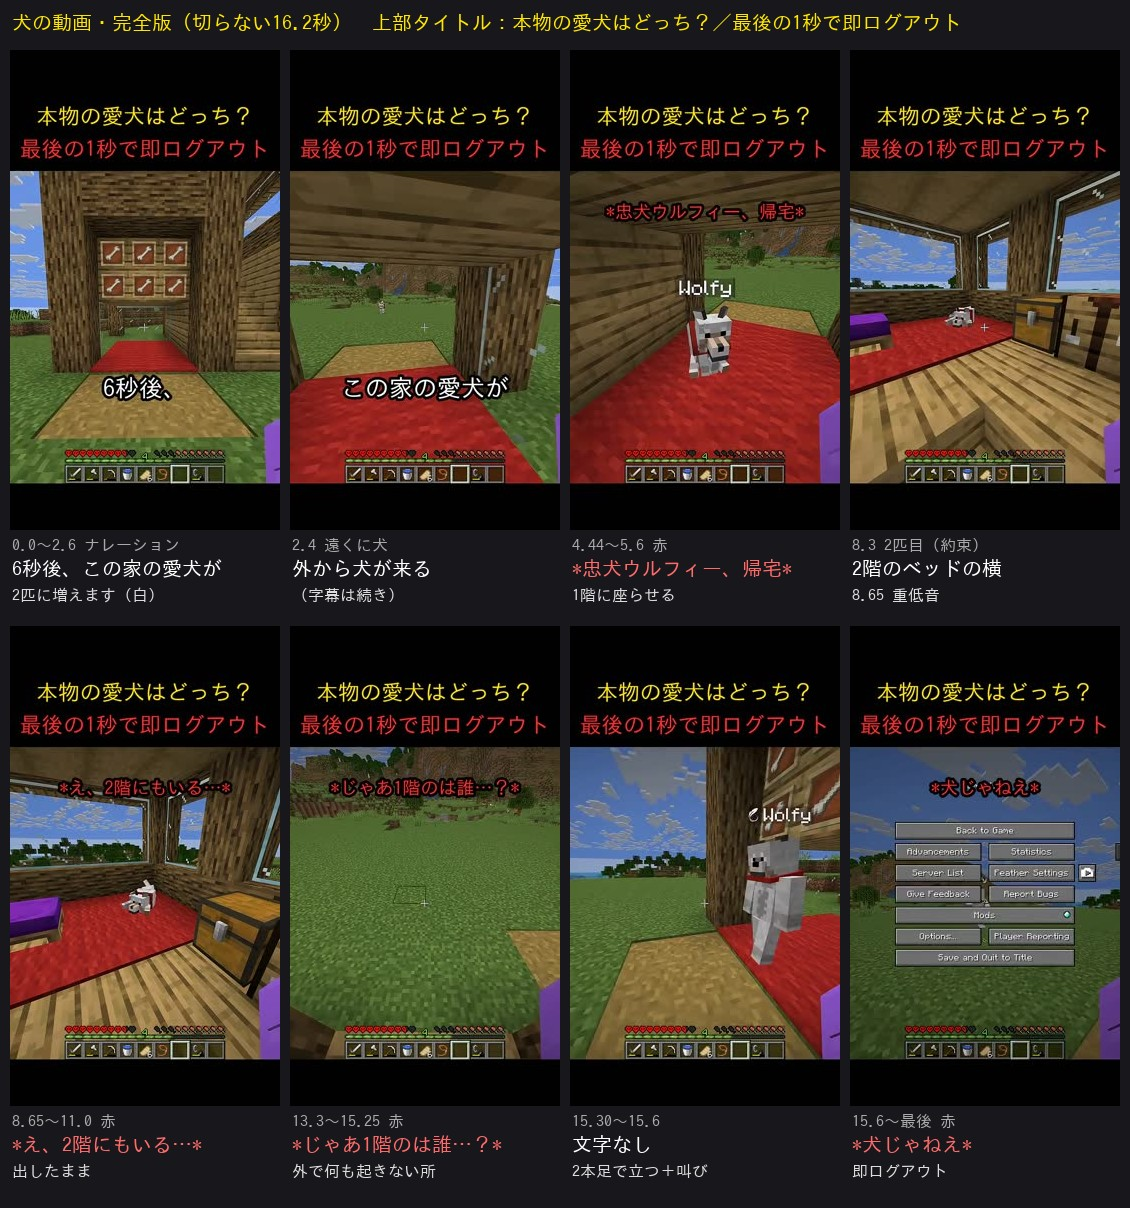
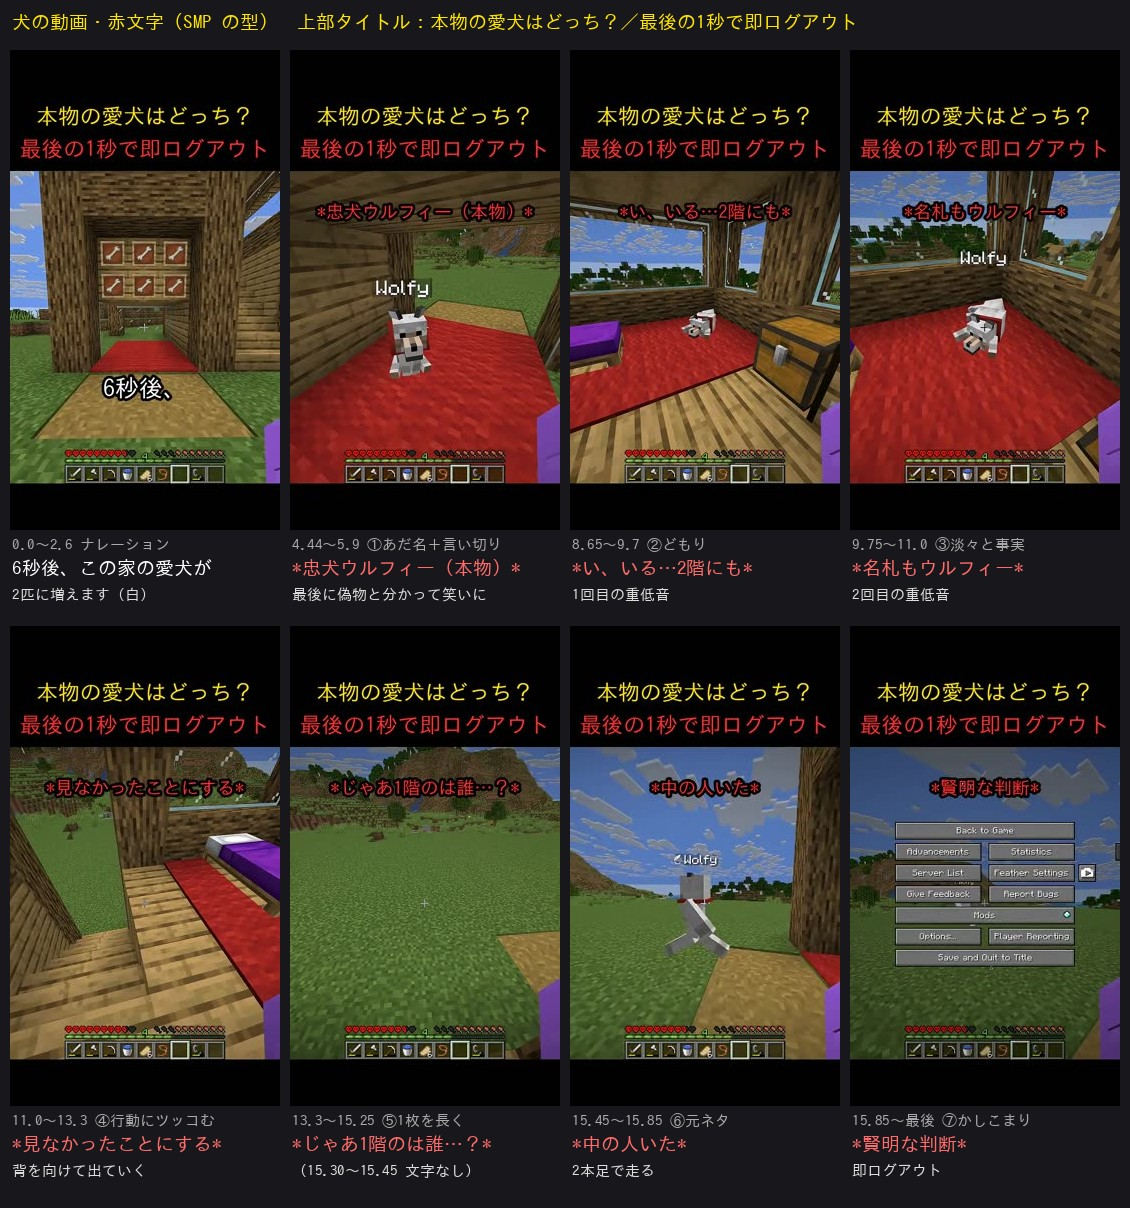
犬の動画：赤文字を SMP の型で作り直す（最後は「中の人いた」→「賢明な判断」）
Claude-Session: https://claude.ai/code/session_017tgZ3MWPtVU5p7tPVej3Ej

diff --git a/tools/dog_cut.py b/tools/dog_cut.py
@@ -39,15 +39,22 @@ LINES = [
     # 数字は「頭から数えると約2秒遅れ・ナレーションが終わってから数えるとほぼ同じ」になるように選ぶ（宝箱・ベリティと同じ合わせ方）
     # 2匹目が映るのは8.3秒。ナレーションは約2.6秒で終わる → 6秒後（頭から +2.3秒／ナレ後から −0.3秒）
     ('ナレーション', None, (0.0, 2.6), '6秒後、この家の愛犬が2匹に増えます。'),
-    # 赤の *〜* は「編集者の声」。画面を見れば分かる事（*振り返ると…* など）は書かない（docs/smp_writing.md の4・6章）
-    # 犬が入ってきて座る。あだ名（忠犬）＋かしこまった言い方。あとで偽物と分かると皮肉になる。名前を覚えさせて、2階の名札「Wolfy」とつなげる
-    ('見出し', (4.44, 5.6), None, '*忠犬ウルフィー、帰宅*'),
-    # 1段目（2階にもう1匹・重低音）。緊張の代弁。そのあと何も起きないので、1枚を長めに出す（SMP「*こ、こない*」と同じ）
-    ('見出し', (8.65, 11.0), None, '*え、2階にもいる…*'),
-    # 外で何も起きない所。2段目の答えを受ける問い。どっちを見ればいいかを先に渡す
+    # 赤の *〜* は「編集者の声」。画面を見れば分かる事は書かない（docs/smp_writing.md）。SMP の型ごとに1枚ずつ
+    # ① あだ名＋わざと言い切る（本物）。最後に偽物と分かると、この一言が笑いになる（ミスリード）
+    ('見出し', (4.44, 5.9), None, '*忠犬ウルフィー（本物）*'),
+    # ② どもりで緊張を代弁（SMP「*こ、こない*」氷が反社 416万）。1回目の重低音（8.65）に合わせる
+    ('見出し', (8.65, 9.7), None, '*い、いる…2階にも*'),
+    # ③ 淡々とした事実（SMP「*値段は土1個*」）。2回目の重低音（9.7）と、名札「Wolfy」が見える所に合わせる
+    ('見出し', (9.75, 11.0), None, '*名札もウルフィー*'),
+    # ④ 主人公の行動に編集者がツッコむ（背を向けて出ていく所）
+    ('見出し', (11.0, 13.3), None, '*見なかったことにする*'),
+    # ⑤ 何も起きない所は1枚を長く（SMP）。2段目の直前に「1階の方」を見させる
     ('見出し', (13.3, 15.25), None, '*じゃあ1階のは誰…？*'),
-    # 2本足で立つ瞬間（15.30〜15.6）は文字なし。そのあと最後の一言（Dream の「引用符付きの一言ツッコミ」33本と同じ役割）
-    ('見出し', (15.6, 16.23), None, '*犬じゃねえ*'),
+    # 15.30〜15.45 立ち上がる瞬間は文字なし
+    # ⑥ 元ネタの言葉でツッコむ（「中の人」）。2本足で走っている所
+    ('見出し', (15.45, 15.85), None, '*中の人いた*'),
+    # ⑦ かしこまった言い方の落差（SMP「それ相応のセキュリティが必要です」）。即ログアウトに
+    ('見出し', (15.85, 16.23), None, '*賢明な判断*'),
 ]
 # 100万超えの3本とベリティは、ナレーションの字幕が全部白
 NARR_CHUNKS = [('6秒後、', 0.22, 'white'), ('この家の愛犬が', 0.40, 'white'), ('2匹に増えます', 0.38, 'white')]

diff --git a/docs/dog/final.md b/docs/dog/final.md
@@ -13,7 +13,7 @@
 | 切り方 | **切らない**（0〜16.23秒・等倍） |
 | 上部タイトル | **本物の愛犬はどっち？**（黄）／**最後の1秒で即ログアウト**（赤）。Gemini も採用で一致 |
 | ナレーション | **6秒後、この家の愛犬が2匹に増えます。**（VOICEVOX 四国めたん・2.5〜2.7秒。11/28 に「8秒後」から変更：7章） |
-| 赤文字 | 4.44 \*忠犬ウルフィー、帰宅\* → 8.65 \*え、2階にもいる…\* → 13.3 \*じゃあ1階のは誰…？\* → （15.30 文字なし）→ 15.6 \*犬じゃねえ\* |
+| 赤文字 | 4.44 \*忠犬ウルフィー（本物）\* → 8.65 \*い、いる…2階にも\* → 9.75 \*名札もウルフィー\* → 11.0 \*見なかったことにする\* → 13.3 \*じゃあ1階のは誰…？\* →（15.30 文字なし）→ 15.45 \*中の人いた\* → 15.85 \*賢明な判断\*（8章。SMP の型） |
 | 投稿タイトル | **マイクラで帰ってきた愛犬が怖すぎる…**（18字）。Gemini と一致 |
 | 固定コメント | **1階と2階、どっちが本物だと思った？** |
 | カバー | 4.8秒のコマ（名札の犬がこちらを向いて座る） |
@@ -138,3 +138,24 @@
 - 「5秒後」は、頭から数えて3.3秒遅れになり、100万超えの範囲（1.0〜2.0秒）を超えるので使わない
 
 **結論：6秒後にする。**
+
+---
+
+## 8. 赤文字の最終版（SMP の型・11/28・ユーザーの要望「センスある SMP みたいな赤文字、最後も」）
+
+SMP の赤文字は「編集者の声」（`docs/smp_writing.md`）。実例：\*値段は土1個\*（淡々と事実）・\*こ、こない\*（どもりで緊張）・\*心の準備\*（視聴者に話しかける）・Daquavis御用達コマンド（あだ名）・(Wemmbu付き)（ぼそっと一言）・無限城／ウォール・マリア（元ネタ）・それ相応のセキュリティが必要です（かしこまった言い方の落差）。
+
+| 秒 | 赤文字 | 使った型 | ねらい |
+|---|---|---|---|
+| 4.44〜5.9 | **\*忠犬ウルフィー（本物）\*** | あだ名＋わざと言い切る | 上部タイトル「本物はどっち？」に、編集者が自信満々に答えてしまう。最後に偽物と分かって、この一言が笑いになる（2周目でも笑える） |
+| 8.65〜9.7 | **\*い、いる…2階にも\*** | どもりで緊張（\*こ、こない\* 氷が反社 416万） | 1回目の重低音に合わせる |
+| 9.75〜11.0 | **\*名札もウルフィー\*** | 淡々と事実（\*値段は土1個\*） | 2回目の重低音と、2階の犬の名札「Wolfy」が見える所に合わせる。同じ犬が2匹いる怖さを、感情を入れずに言う |
+| 11.0〜13.3 | **\*見なかったことにする\*** | 主人公の行動にツッコむ | 背を向けて出ていく所。誰でもやる逃げ方なので笑える |
+| 13.3〜15.25 | **\*じゃあ1階のは誰…？\*** | 何も起きない所は1枚を長く | 2段目の直前に「1階の方」を見させる |
+| 15.30〜15.45 | （なし） | オチの瞬間は見せる | 立ち上がる瞬間 |
+| 15.45〜15.85 | **\*中の人いた\*** | 元ネタの言葉（着ぐるみの「中の人」） | 2本足で走るのを見た瞬間のツッコミ。①の（本物）の答えにもなる |
+| 15.85〜最後 | **\*賢明な判断\*** | かしこまった言い方の落差 | 即ログアウトを、編集者が真顔でほめる。上部タイトル「即ログアウト」の回収。ここで頭に戻る |
+
+- 何も入れない所：2.6〜4.4（犬が近づく）と 5.9〜8.6（1階を見回す〜階段）。「6秒後」を待っている所なので、文字で邪魔しない
+- 話し声のない素材は、編集者が喋る量を増やす（SMP：喋りが少ない素材ほど編集者の一言が要る）。Gemini の「3か所だけ」より多いのはこのため
+- ⑥と⑦は0.4秒ずつと短い。どちらも5字なので読めるが、読み切れなくても2周目で拾える
